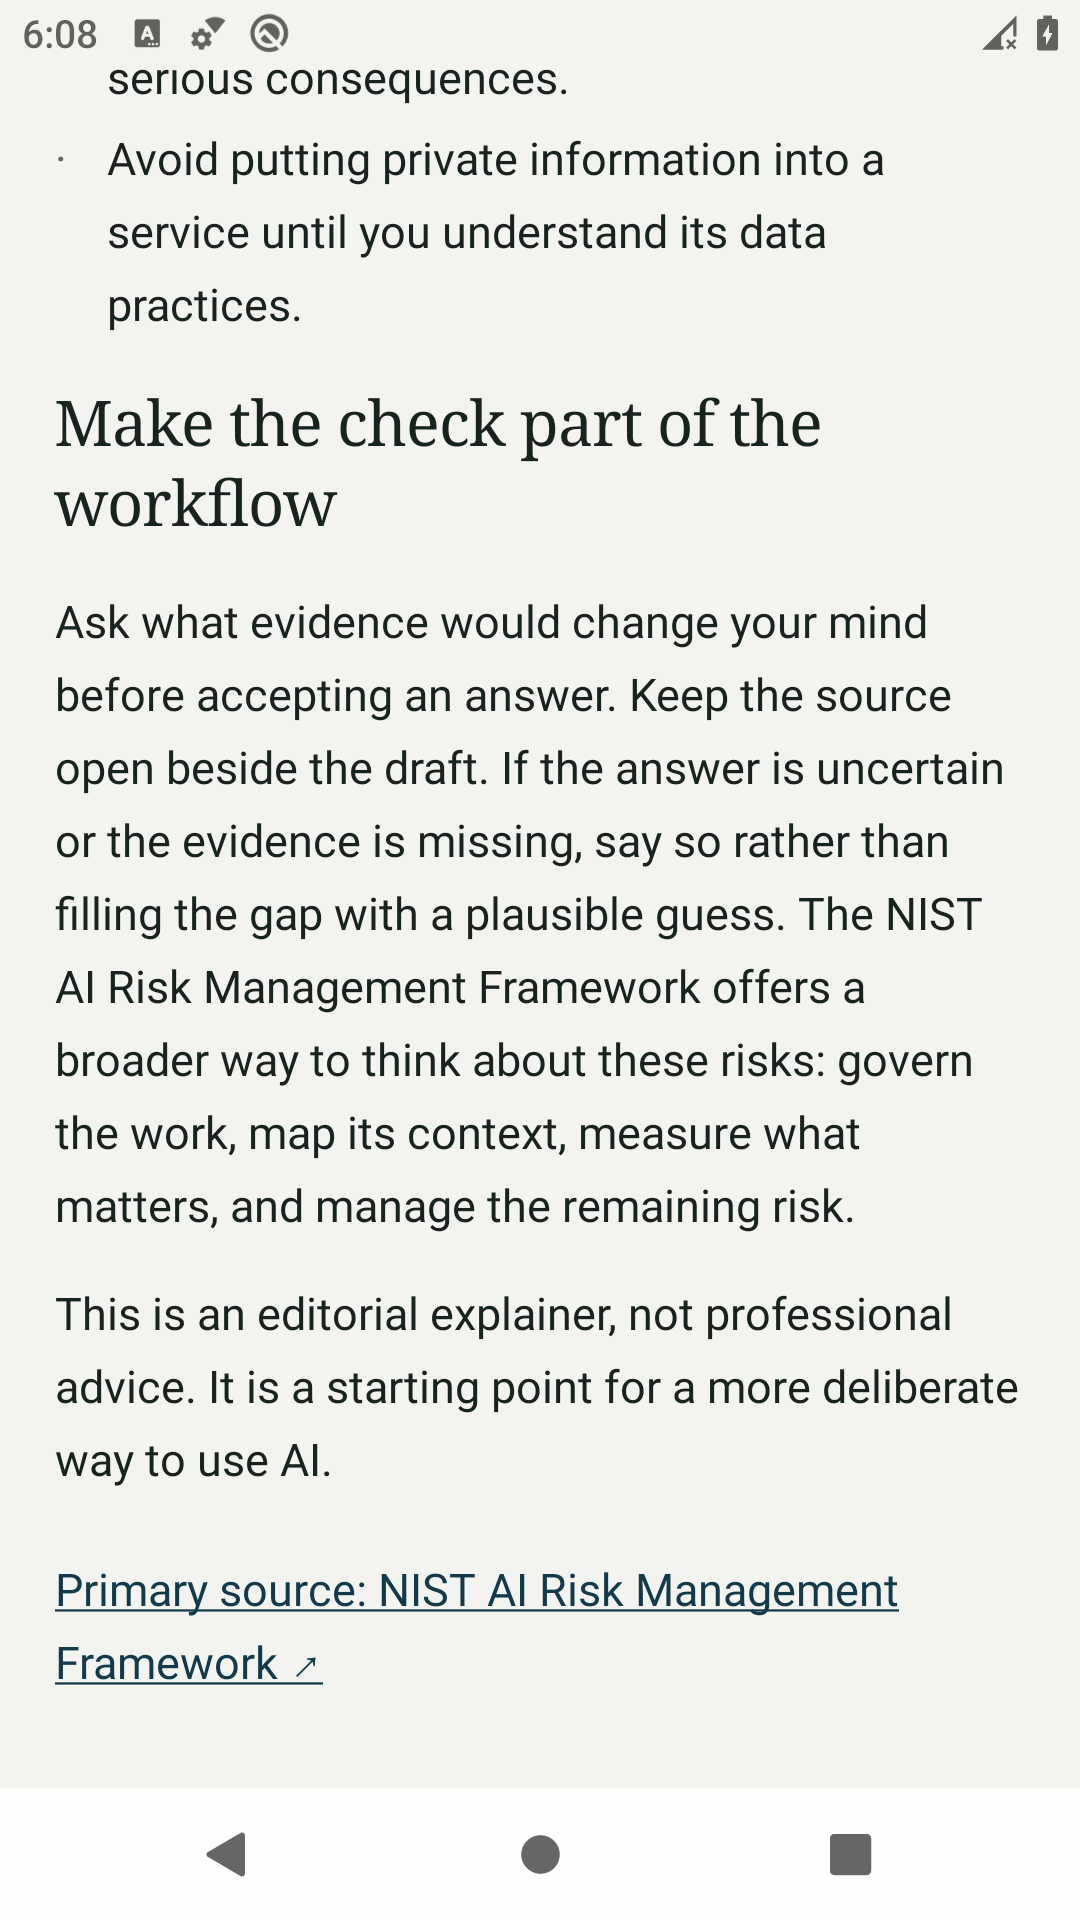
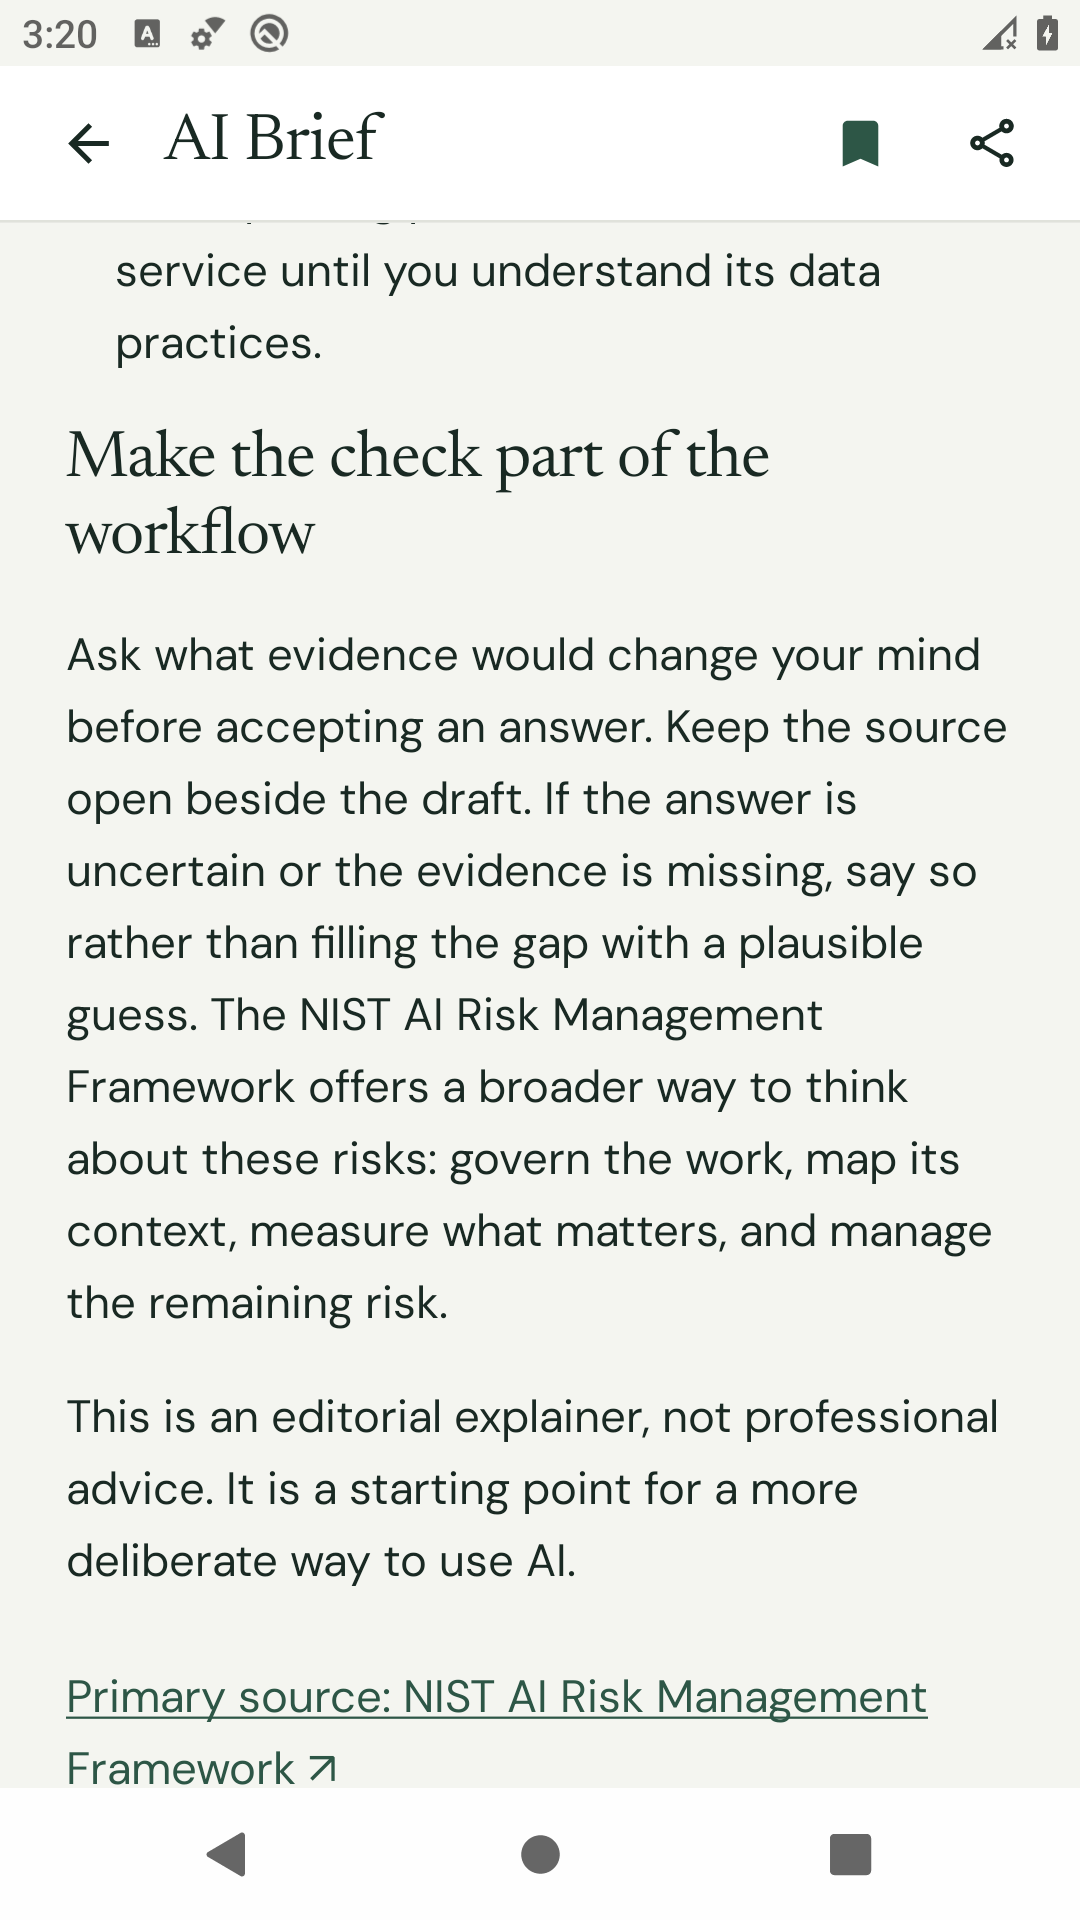
Record verified version 114 artifacts and refreshed Android screens

diff --git a/docs/release/VERIFICATION.md b/docs/release/VERIFICATION.md
@@ -1,6 +1,6 @@
 # Release verification
 
-Prepared and checked on 3 October 2026. App source: **9e1ddb9c8d4e86bc835a16e2e95aa0dfaa827282**. Version **2.2.0 / 113**, package **com.caceras.aibrief**, min SDK 26, target SDK 36. Later documentation and screenshot commits do not change the app code.
+Prepared and checked on 3 October 2026. App source: **cab39cfa54ddf9e282506f4290f740c26511afca**. Version **2.2.1 / 114**, package **com.caceras.aibrief**, min SDK 26, target SDK 36. Later documentation and screenshot commits do not change the app code.
 
 ## Completed checks
 
@@ -17,9 +17,11 @@ Prepared and checked on 3 October 2026. App source: **9e1ddb9c8d4e86bc835a16e2e9
 
 ## Native reader evidence
 
-The minified, non-debuggable internal-sharing APK was installed on an Android 10/API 29 x86_64 emulator with a 4 KB page size. The exact final candidate passed fresh offline launch, native article reading, source display, saving/removing-control state, saved persistence after process recreation, About/privacy text, body search, and rendering at 200% text scale. No AI Brief crash was present in the captured AndroidRuntime log. See android-device.json for the individual assertions.
+The minified, non-debuggable internal-sharing APK was installed on an Android 10/API 29 x86_64 emulator with a 4 KB page size. The installed APK was read back and its SHA-256 matched the exact final candidate, which passed fresh offline launch, native article reading, source display, saving/removing-control state, saved persistence after process recreation, About/privacy text, body search, and rendering at 200% text scale. No AI Brief crash was present in the captured AndroidRuntime log. See android-device.json for the individual assertions.
 
-Visual inspection found text scrolling under system bars; version 113 fixes the scrolling viewport using safe drawing insets. Screenshots were recaptured on that version. An earlier search-check failure was a test selector expecting a result above the fold; the check now scrolls to the result.
+The previous iteration’s visual inspection found text scrolling under system bars; version 113 fixes the scrolling viewport using safe drawing insets. Screenshots were recaptured on version 114. Version 114 introduces the compact masthead, Newsreader/DM Sans typography, photographic topic artwork, persistent bottom navigation and focused search list. See [the design refinement](../DESIGN_REFINEMENT.md).
+
+The local software emulator initially stalled during installation and showed a System UI ANR dialog. After a clean device restart and clearing that system dialog, the exact installed APK completed the final checks. These environment failures are not counted as app passes or app crashes.
 
 **Dark mode was not exercised:** this older emulator locks night mode and returns “Night mode: no” after the requested switch. The check records this limitation instead of counting a light screenshot as a dark-mode pass. Verify dark mode on a supported current Android device.
 
@@ -27,7 +29,7 @@ The local Android 16 software emulator's system server repeatedly died before ap
 
 ## Delivery and Console status
 
-Both version-113 APKs are uploaded in the connected owner's Drive. The internal-sharing file was downloaded again and its SHA-256 matched the local APK; phone-test metadata was read back and its size matched. delivery.json contains the exact URLs, hashes and app-source commit.
+Both version-114 APKs are uploaded in the connected owner's Drive. The internal-sharing file was downloaded again and its SHA-256 matched the local APK; both APKs were downloaded again and their SHA-256 values matched the local files. delivery.json contains the exact URLs, hashes and app-source commit.
 
 GitHub returns HTTP 403 “Resource not accessible by integration” for pushes and API writes. The source and workflows are committed locally; no new GitHub release, Pages site or authenticated publishing workflow is live. Public contact/privacy/editor URLs must be deployed and checked before production.
 

diff --git a/docs/PLAY_LAUNCH_PLAN.md b/docs/PLAY_LAUNCH_PLAN.md
@@ -6,12 +6,12 @@ The immediate goal is to complete Google's inactivity actions before the account
 
 ## Delivery status
 
-The redesigned source is prepared and committed locally. GitHub currently rejects repository writes with HTTP 403 (`Resource not accessible by integration`), so the new release and publishing workflows are **not yet published** there. The prepared internal-sharing APK is available in Drive. The contact/privacy pages and daily editor are prepared locally; the GitHub Pages URLs below must be deployed and verified before production. Reconnecting GitHub with repository write access will let Codex finish that publication. No Play Console upload or account-warning clearance is claimed.
+The redesigned source is prepared and committed locally. GitHub currently rejects repository writes with HTTP 403 (`Resource not accessible by integration`), so the new release and publishing workflows are **not yet published** there. The refined version 2.2.1 / 114 internal-sharing APK is available in Drive. It uses the compact editorial layout, bundled Newsreader/DM Sans fonts and photographic topic artwork. The contact/privacy pages and daily editor are prepared locally; the GitHub Pages URLs below must be deployed and verified before production. Reconnecting GitHub with repository write access will let Codex finish that publication. No Play Console upload or account-warning clearance is claimed.
 
 ## 1. Do these account actions today
 
 1. Sign in to the account showing the warning. In **Developer account > Account details**, verify the **contact email and phone number**, then **Save**. Save evidence of both verified states.
-2. If AI Brief has no entry in this account yet, create it in Play Console and complete its initial setup first. Then download the prepared **[AI Brief Internal app sharing APK](https://drive.google.com/file/d/1bSdK7lws5eavmF6JDwRXOusRhiYAY6Nq/view?usp=drivesdk)** from your Drive. Upload that file through [Internal app sharing](https://play.google.com/console/internal-app-sharing), then select **Confirm upload**. Save the upload confirmation, timestamp and resulting link.
+2. If AI Brief has no entry in this account yet, create it in Play Console and complete its initial setup first. Then download the prepared **[AI Brief Internal app sharing APK](https://drive.google.com/file/d/1hxK1ojphsmx3oTsHuyB97-J_KtF_Tkbt/view?usp=drivesdk)** from your Drive. Upload that file through [Internal app sharing](https://play.google.com/console/internal-app-sharing), then select **Confirm upload**. Save the upload confirmation, timestamp and resulting link.
 3. Return to **Policy status > Issue details** and check the inactivity notice. Keep the closure email: its exact cutoff controls, and the screenshots show only a date. Do not assume a particular midnight timezone.
 4. If the warning persists, Internal app sharing is unavailable, or verification fails, use Play Console Help to contact developer support immediately with the account ID, closure notice, verification evidence and upload receipt. Use the draft below. Do not rely on an unanswered support request as a granted extension.
 5. Separately inspect **Android developer verification** for this exact package. The screenshot's `Com.caceras` draft is a different package. Do not rename this app to match it, replace its key, or delete the draft to address inactivity.

diff --git a/docs/DESIGN_REFINEMENT.md b/docs/DESIGN_REFINEMENT.md
@@ -1,0 +1,20 @@
+# AI Brief design refinement — 2.2.1 / 114
+
+App source: `cab39cfa54ddf9e282506f4290f740c26511afca`. Application ID and signing identities are preserved.
+
+The initial design spent much of the first screen on navigation and an introductory slogan. The reader repeated that navigation, and the same cover plus generic geometric thumbnails made the edition feel repetitive. This revision follows the two editorial references more closely.
+
+- A compact white masthead above the edition date and topic filters; the lead story comes directly afterward.
+- Bundled Newsreader headlines and DM Sans text, with a consistent type scale and shorter metadata.
+- Original photographic-style illustrations for research, builders and policy alongside the studio cover. Illustrations are labeled in the reader; none represents a reported event. Remote image failures also receive a bundled fallback.
+- A white photo-led feature and compact thumbnail rows on warm off-white paper. Long teaser text is bounded; full text remains in the reader.
+- A full-width navy section with photographic topic cards, inspired by the travel reference.
+- Persistent Latest, Saved and About navigation. Search uses a focused input and a compact list of results, including body-text matches.
+- A reader with a compact back/save/share toolbar, topic label, headline, standfirst, author and publication date. Saving confirms the change visibly.
+- A reading-list count, offline availability and a useful empty state.
+
+The native reader retains safe-drawing insets, offline content and local saves. The fonts and illustrations used here are bundled, so first-install appearance does not depend on downloads. The fonts use the SIL Open Font License; license text is in the source and APK.
+
+Check `docs/release/VERIFICATION.md` for the final build and native-device evidence. Store screenshots are actual Android captures, without replacement product UI.
+
+Repository publication is still blocked by the connected GitHub integration's HTTP 403 write rejection. Public contact/privacy/editor hosting and the daily publishing workflow remain pending that access. No Play production submission or approval is implied by this design iteration.

diff --git a/README.md b/README.md
@@ -16,7 +16,7 @@ A native Kotlin/Jetpack Compose publication about artificial intelligence. The e
 
 Publish through [the mobile editor](https://caceras.github.io/ai-news-kotlin/editor.html), or ask Codex to publish your writing with source links. The authenticated publisher workflow validates and updates content/posts.json; the app reads it at runtime. Content-only changes do not trigger Android builds. See [the daily publishing guide](docs/CONTENT.md).
 
-External RSS code is retained but disabled in the launch edition. Check publisher reuse permissions and update privacy/Data safety declarations before enabling it. The bundled cover is original AI-generated illustrative artwork, labeled in the reader.
+External RSS code is retained but disabled in the launch edition. Check publisher reuse permissions and update privacy/Data safety declarations before enabling it. Bundled editorial illustrations are original AI-generated artwork, labeled in the reader. Headlines and text use bundled Newsreader and DM Sans fonts.
 
 ## Delivery identities
 

diff --git a/docs/PHONE_WORKFLOW.md b/docs/PHONE_WORKFLOW.md
@@ -4,7 +4,7 @@ Describe changes in plain language. Codex handles implementation, verification a
 
 ## Install and update the phone-test app
 
-For the current prepared edition, [download phone-test version 113 from Drive](https://drive.google.com/file/d/1kkzvrZimOSLIaeI0Uvh_pb1I-3eMfwvr/view?usp=drivesdk). GitHub currently denies repository writes, so this version has not been published there.
+For the current prepared edition, [download phone-test version 114 from Drive](https://drive.google.com/file/d/13fyPtv6XPSJdiF5wdOuPhIZgYExjO4D4/view?usp=drivesdk). GitHub currently denies repository writes, so this version has not been published there.
 
 After repository publication resumes, use **ai-brief.apk** from the verified build-specific GitHub release. The rolling fallback is:
 
